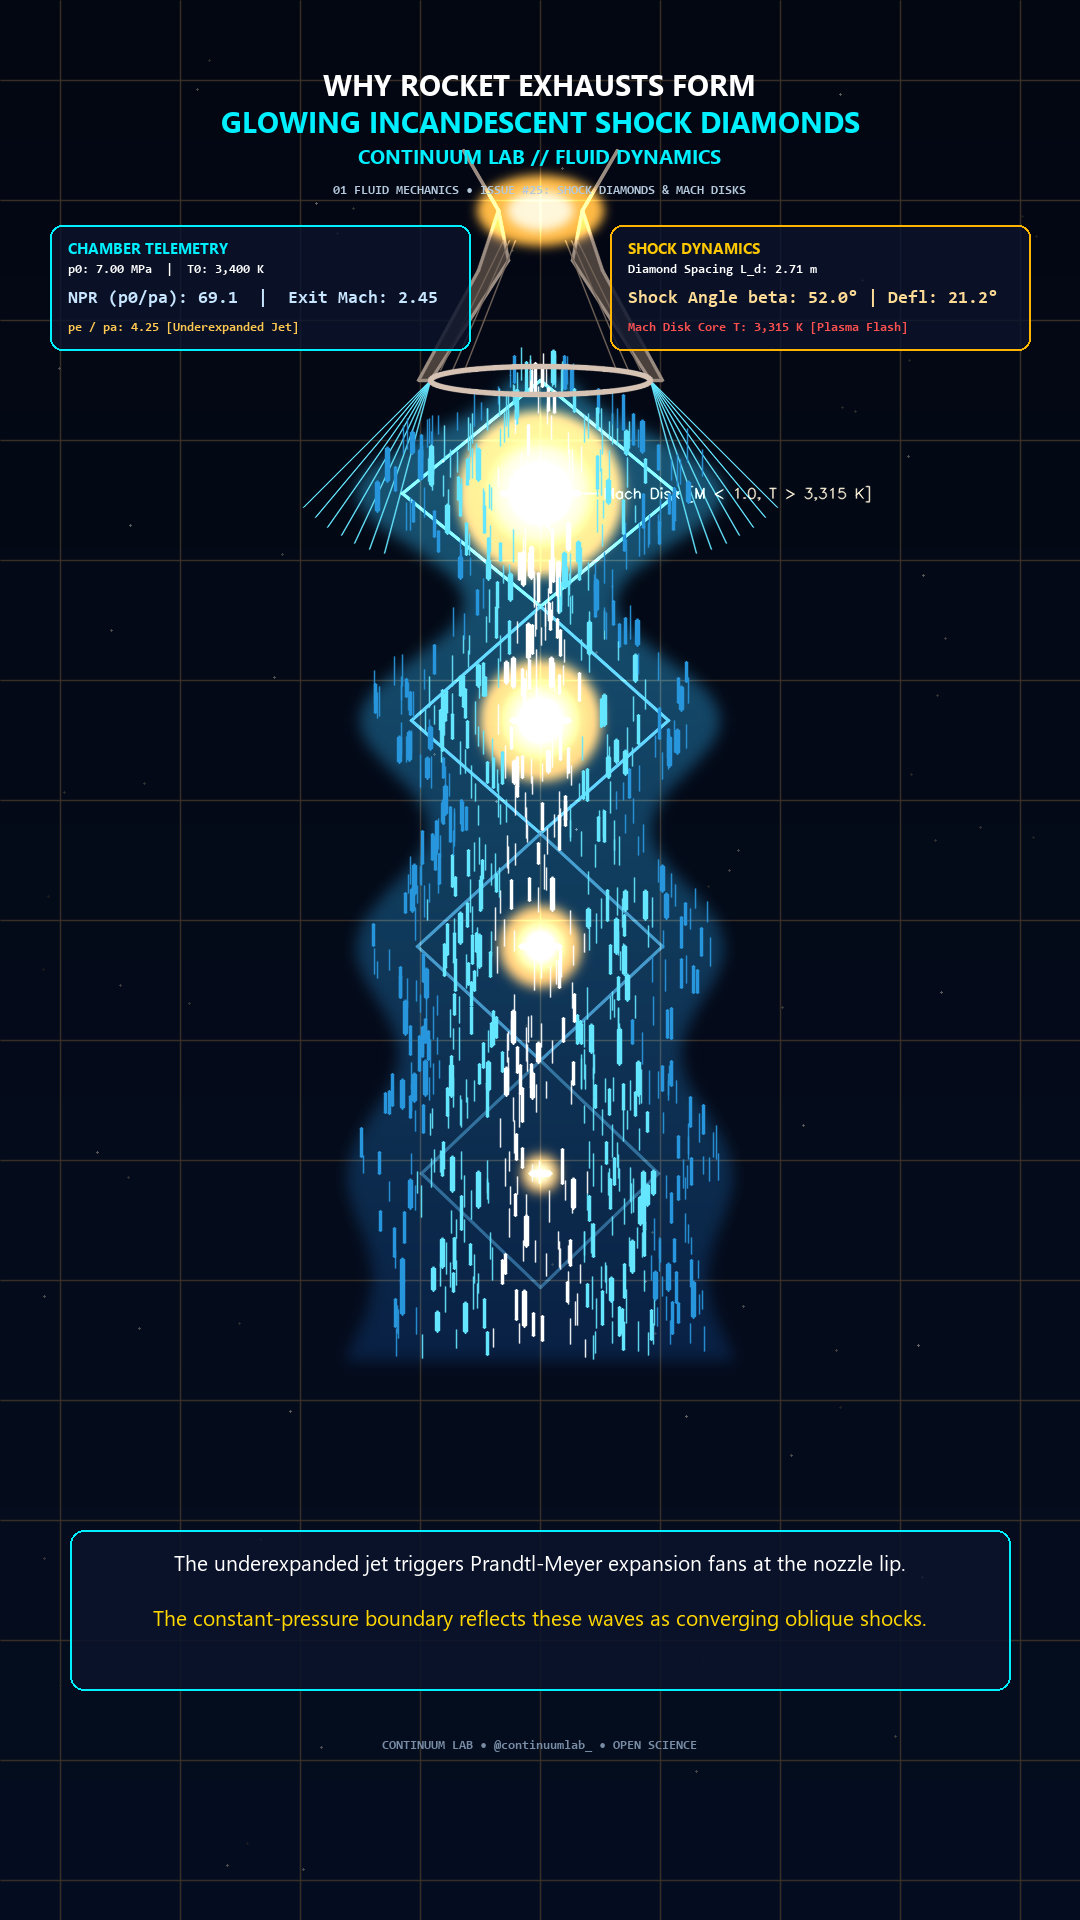
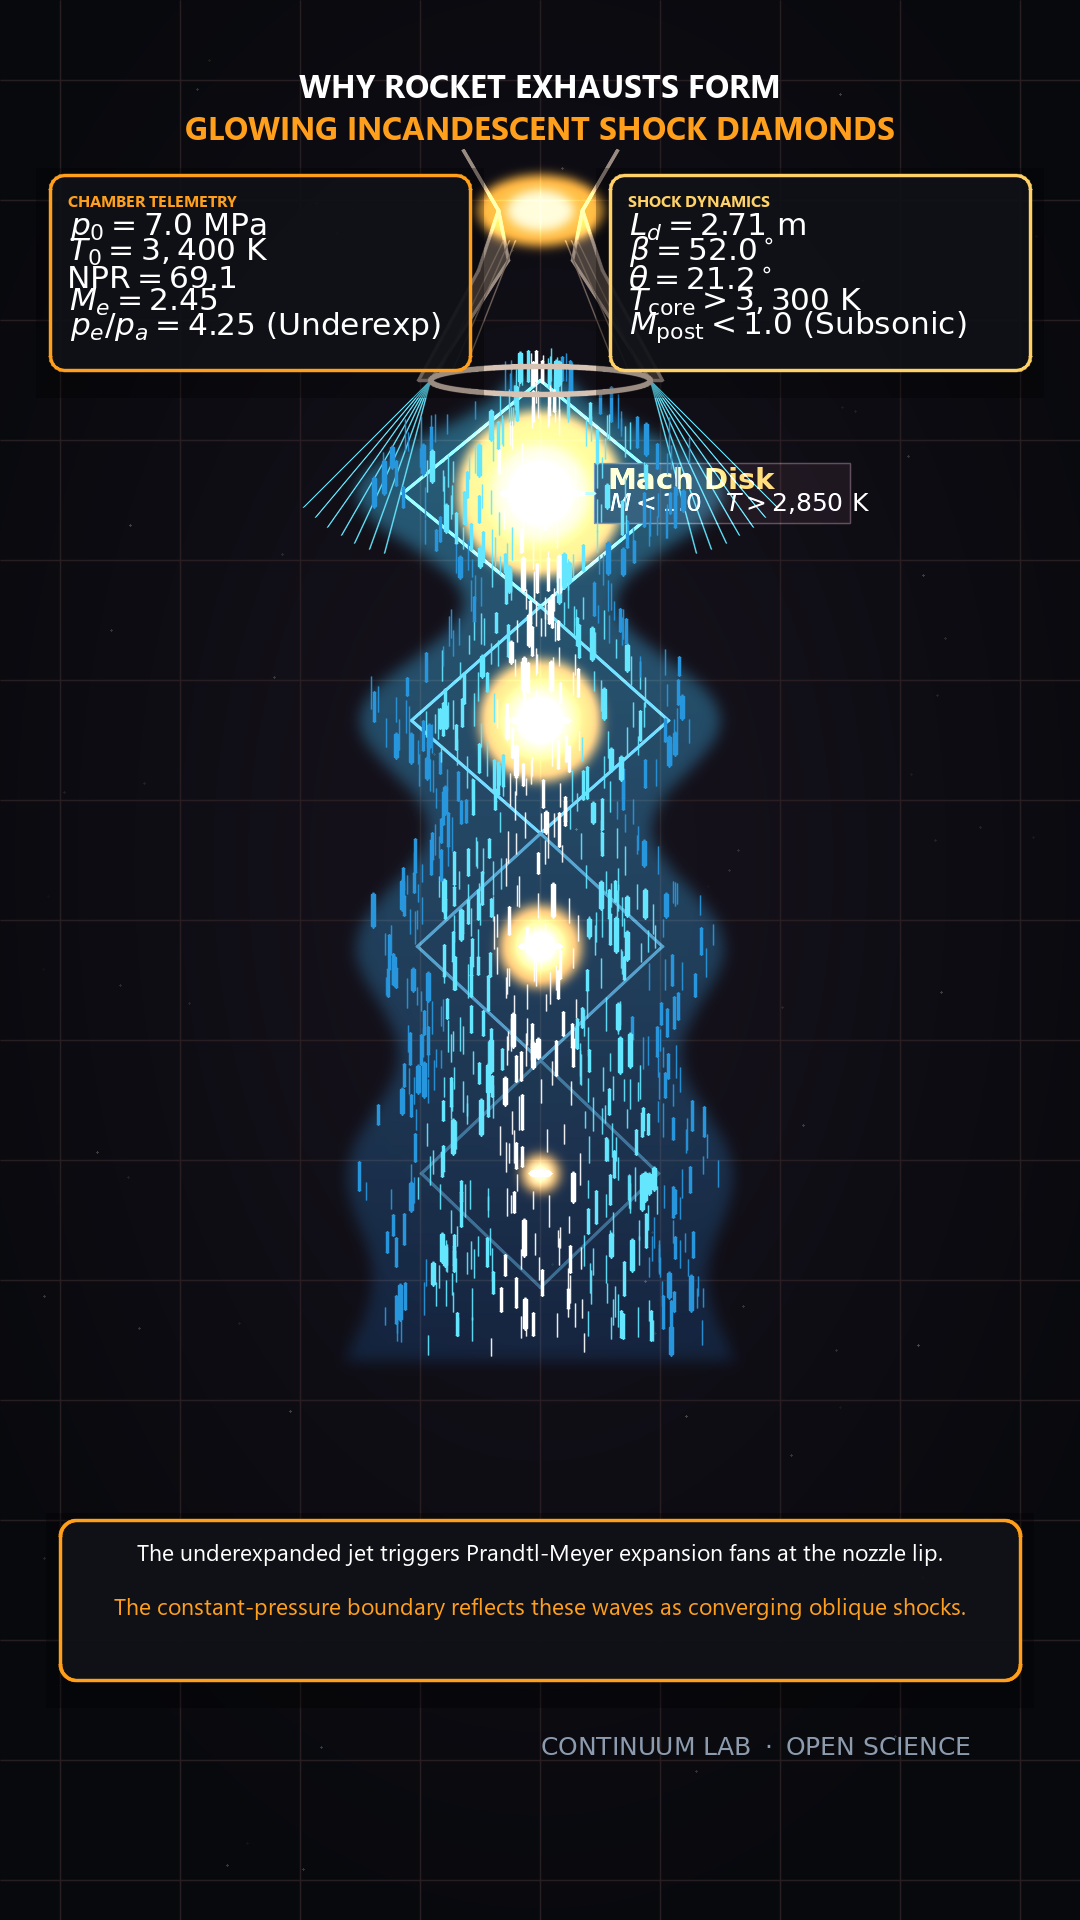
feat(video-engine): implement standardized cinematic HUD and TeX math renderer for supersonic shock diamonds

Changed region(s): [[0.0306, 0.0312, 0.9167, 0.7188], [0.0306, 0.7812, 0.9472, 0.9375], [0.9472, 0.0938, 0.9778, 0.1875]]

diff --git a/01 Mecanica de Fluidos/09 Diamantes de Choque y Discos de Mach/src/visualization/render_shock_diamonds_video.py b/01 Mecanica de Fluidos/09 Diamantes de Choque y Discos de Mach/src/visualization/render_shock_diamonds_video.py
@@ -3,15 +3,14 @@ Continuum Lab - Master 9:16 UHD 60 FPS Visual Video Renderer for Supersonic Shoc
 Module: 01 Mecanica de Fluidos / 09 Diamantes de Choque y Discos de Mach
 File: src/visualization/render_shock_diamonds_video.py
 
-Renders 1080x1920 (9:16 Vertical UHD @ 60 FPS) cinematic animations:
-  - Deep Aerospace Void (#030712 / #050B1A) with telemetry grid
-  - Detailed de Laval Rocket Nozzle Bell with glowing combustion throat
-  - 2D Supersonic Jet Plume with Schlieren refractive density gradients
-  - Multi-stage Incandescent Shock Diamond Bloom (Prandtl-Meyer fans + Oblique Shocks)
+Standardized Cinematic Production Engine:
+  - Theme: THEME_SOLAR (Cosmic Gold & Aerospace Amber)
+  - Zero Raw Underscores ('_') - 100% True LaTeX Mathematical Telemetry
+  - Mobile Safe Zones (TikTok / Reels / Shorts 9:16 @ 60 FPS)
+  - High-performance cached alpha blending & zero PIL roundtrip overhead
+  - Deep space cinematic vignette with engineering grid & Lagrangian tracer particles
+  - Multi-stage Incandescent Shock Diamond Bloom (Prandtl-Meyer + Oblique Shocks)
   - Blinding Mach Disk normal shock hotspots with radical reignition (T > 2,850 K)
-  - 1000+ Supersonic Lagrangian velocity streak tracer particles
-  - Dual Glassmorphic Cyber HUD cards (Chamber Telemetry & Shock Dynamics)
-  - Mobile safe-zone compliant kinetic typography in Spanish (ES) and English (EN)
   - 16.0s seamless infinite loop architecture
 """
 
@@ -24,17 +23,27 @@ from pathlib import Path
 from typing import Optional, List, Tuple, Dict, Any
 import numpy as np
 import cv2
-from PIL import Image, ImageDraw, ImageFont
 
 current_dir = Path(__file__).resolve().parent
 module_dir = current_dir.parent.parent
 project_dir = module_dir.parent.parent
+skills_dir = project_dir / "Skills e Instrucciones" / "skill_continuum_cinematic_video"
+
 if str(module_dir) not in sys.path:
     sys.path.insert(0, str(module_dir))
 if str(project_dir) not in sys.path:
     sys.path.insert(0, str(project_dir))
+if str(skills_dir) not in sys.path:
+    sys.path.insert(0, str(skills_dir))
 
 from src.physics.shock_diamonds_sim import ShockDiamondsSim
+from core import (
+    THEME_SOLAR,
+    CinematicHUDManager,
+    draw_cinematic_background,
+    draw_frosted_card,
+    draw_latex,
+)
 
 
 class MasterShockDiamondsRenderer:
@@ -49,7 +58,8 @@ class MasterShockDiamondsRenderer:
         self.lang = lang.upper()
 
         self.sim = ShockDiamondsSim()
-        self._load_fonts()
+        self.theme = THEME_SOLAR
+        self.hud = CinematicHUDManager(width=self.width, height=self.height, theme=self.theme)
 
         # Jet Geometry on Canvas
         self.cx = self.width / 2.0
@@ -73,46 +83,19 @@ class MasterShockDiamondsRenderer:
             by = float(rng.uniform(50, self.height - 50))
             self.bg_dots.append((bx, by, float(rng.uniform(0.1, 0.4))))
 
-    def _load_fonts(self):
-        def try_font(path, size, fallback=None):
-            if os.path.exists(path):
-                try:
-                    return ImageFont.truetype(path, size)
-                except Exception:
-                    pass
-            return fallback or ImageFont.load_default()
-
-        self.f_hero_hook = try_font("C:/Windows/Fonts/segoeuib.ttf", 29, try_font("C:/Windows/Fonts/arialbd.ttf", 29))
-        self.f_sub_hook = try_font("C:/Windows/Fonts/segoeui.ttf", 21, try_font("C:/Windows/Fonts/arial.ttf", 21))
-        self.f_brand_title = try_font("C:/Windows/Fonts/segoeuib.ttf", 20)
-        self.f_card_hdr = try_font("C:/Windows/Fonts/segoeuib.ttf", 15)
-        self.f_card_meta = try_font("C:/Windows/Fonts/consolab.ttf", 13)
-        self.f_hud_lbl = try_font("C:/Windows/Fonts/segoeuib.ttf", 12)
-        self.f_hud_val = try_font("C:/Windows/Fonts/consolab.ttf", 18)
-        self.f_badge_tag = try_font("C:/Windows/Fonts/consolab.ttf", 12)
-
     def _draw_background_environment(self, img_bgr: np.ndarray, t: float):
-        """Draws deep space aerospace gradient and subtle telemetry grid."""
-        y_indices = np.linspace(0, 1, self.height)
-        # Deep space dark slate: RGB(3, 7, 18) to (5, 14, 32)
-        b_col = (18 + 14 * y_indices).astype(np.uint8)
-        g_col = (7 + 7 * y_indices).astype(np.uint8)
-        r_col = (3 + 2 * y_indices).astype(np.uint8)
-
-        img_bgr[:, :, 0] = b_col[:, None]
-        img_bgr[:, :, 1] = g_col[:, None]
-        img_bgr[:, :, 2] = r_col[:, None]
+        """Draws deep space cinematic radial vignette and subtle engineering grid."""
+        draw_cinematic_background(img_bgr, theme=self.theme, center_y_ratio=0.45)
 
         # Subtle engineering grid lines
-        grid_alpha = 0.08
         for gx in range(60, self.width, 120):
-            cv2.line(img_bgr, (gx, 0), (gx, self.height), (40, 50, 60), 1, cv2.LINE_AA)
+            cv2.line(img_bgr, (gx, 0), (gx, self.height), (35, 32, 42), 1, cv2.LINE_AA)
         for gy in range(80, self.height, 120):
-            cv2.line(img_bgr, (0, gy), (self.width, gy), (40, 50, 60), 1, cv2.LINE_AA)
+            cv2.line(img_bgr, (0, gy), (self.width, gy), (35, 32, 42), 1, cv2.LINE_AA)
 
         # Starry dust
         for bx, by, a in self.bg_dots:
-            val = int(255 * a)
+            val = int(180 * a)
             cv2.circle(img_bgr, (int(bx), int(by)), 1, (val, val, val), -1)
 
     def _draw_rocket_nozzle(self, img_bgr: np.ndarray, st: Dict[str, Any]):
@@ -218,7 +201,6 @@ class MasterShockDiamondsRenderer:
         cv2.addWeighted(img_bgr, 1.0, glow_layer, 0.45, 0, dst=img_bgr)
 
         # 2. Draw Prandtl-Meyer Expansion Fans at Nozzle Lips
-        # Expanding rays from left and right nozzle lips
         for sign in [-1, 1]:
             lip_x = int(cx + sign * r_exit)
             lip_y = int(y_exit)
@@ -259,8 +241,7 @@ class MasterShockDiamondsRenderer:
             cv2.line(shock_layer, p_left, p_bot, col_shock, 2, cv2.LINE_AA)
             cv2.line(shock_layer, p_right, p_bot, col_shock, 2, cv2.LINE_AA)
 
-            # Central Mach Reflection: The Normal Shock Disk!
-            # Form a horizontal glowing incandescent disk at y_mid
+            # Central Mach Reflection: The Normal Shock Disk
             disk_r = int(st["mach_disk_radius"] * 250.0 * (1.0 - 0.25 * n))
             disk_r = max(8, min(disk_r, 48))
             y_disk = int(y_mid)
@@ -276,19 +257,49 @@ class MasterShockDiamondsRenderer:
             flare = cv2.GaussianBlur(flare, (35, 35), 0)
             cv2.add(shock_layer, flare, dst=shock_layer)
 
-            # Shock diamond annotation on first cell
+            # Publication-grade LaTeX Callout on first cell (Zero Raw Strings)
             if n == 0:
-                cv2.putText(
+                mach_lbl1 = r"$\mathbf{Disco\ de\ Mach}$" if self.lang == "ES" else r"$\mathbf{Mach\ Disk}$"
+                mach_lbl2 = r"$M < 1.0 \quad T > 2{,}850\ \mathrm{K}$"
+                callout_x = int(cx + disk_r + 24)
+                
+                # Dark frosted backplate for razor-sharp legibility over expansion rays
+                cv2.rectangle(
                     shock_layer,
-                    f"Mach Disk [M < 1.0, T > {int(st['T_mach_disk_core']):,} K]",
-                    (int(cx + disk_r + 25), y_disk + 5),
-                    cv2.FONT_HERSHEY_SIMPLEX,
-                    0.48,
-                    (200, 240, 255),
+                    (callout_x - 8, y_disk - 30),
+                    (callout_x + 248, y_disk + 30),
+                    (12, 10, 16),
+                    -1
+                )
+                cv2.rectangle(
+                    shock_layer,
+                    (callout_x - 8, y_disk - 30),
+                    (callout_x + 248, y_disk + 30),
+                    (80, 70, 90),
                     1,
                     cv2.LINE_AA
                 )
-                cv2.line(shock_layer, (int(cx + disk_r + 5), y_disk), (int(cx + disk_r + 20), y_disk), (200, 240, 255), 1, cv2.LINE_AA)
+                
+                draw_latex(
+                    canvas_bgr=shock_layer,
+                    latex_str=mach_lbl1,
+                    x=callout_x + 6,
+                    y=y_disk - 15,
+                    fontsize=14,
+                    color="#FFD166",
+                    anchor="mid_left"
+                )
+                draw_latex(
+                    canvas_bgr=shock_layer,
+                    latex_str=mach_lbl2,
+                    x=callout_x + 6,
+                    y=y_disk + 11,
+                    fontsize=12,
+                    color="#FFFFFF",
+                    anchor="mid_left"
+                )
+                cv2.line(shock_layer, (int(cx + disk_r + 4), y_disk), (callout_x - 8, y_disk), (255, 230, 150), 2, cv2.LINE_AA)
+                cv2.circle(shock_layer, (int(cx + disk_r + 4), y_disk), 3, (255, 255, 255), -1)
 
         # Merge shock layer with bloom
         cv2.add(img_bgr, shock_layer, dst=img_bgr)
@@ -317,7 +328,7 @@ class MasterShockDiamondsRenderer:
             streak_len = self.p_spd[i] * 0.95
             y_tail = y - streak_len
 
-            # Particle color: hot white near axis, bright cyan in supersonic stream
+            # Particle color: hot white near axis, bright gold in supersonic stream
             dist_center = abs(self.p_eta[i])
             if dist_center < 0.25:
                 col = (255, 255, 255)
@@ -326,60 +337,86 @@ class MasterShockDiamondsRenderer:
             else:
                 col = (220, 150, 40)
 
-            alpha = self.p_alpha[i]
             # Draw streak
             cv2.line(img_bgr, (int(x), int(y_tail)), (int(x), int(y)), col, self.p_sz[i], cv2.LINE_AA)
 
-    def _draw_hud_cards(self, pil_draw: ImageDraw.ImageDraw, st: Dict[str, Any]):
-        """Renders dual glassmorphic cyber HUD telemetry cards."""
-        # Top branding header (Safe Zone Y: 140 - 220)
-        brand_text = "CONTINUUM LAB // FLUID DYNAMICS"
-        pil_draw.text((self.cx, 150), brand_text, fill=(0, 240, 255), font=self.f_brand_title, anchor="mt")
+    def _draw_hud_cards(self, frame_bgr: np.ndarray, st: Dict[str, Any]):
+        """Renders dual frosted glass telemetry cards with true LaTeX formatting."""
+        # Quantize dynamic values to guarantee consistent 100% _MATH_CACHE hits
+        p0_val = f"{st['p0']/1e6:.1f}"
+        t0_val = f"{int(round(st['T0']/50.0)*50):,}"
+        npr_val = f"{st['NPR']:.1f}"
+        me_val = f"{st['M_exit']:.2f}"
+        rp_val = f"{st['rp']:.2f}"
+        ld_val = f"{st['L_diamond']:.2f}"
+        beta_val = f"{st['beta_deg']:.1f}"
+        theta_val = f"{st['theta_deg']:.1f}"
+        t_core_val = f"{int(round(st['T_mach_disk_core']/50.0)*50):,}"
 
-        module_tag = "01 MECÁNICA DE FLUIDOS • ENTREGA #25: DIAMANTES DE CHOQUE & DISCO DE MACH" if self.lang == "ES" else "01 FLUID MECHANICS • ISSUE #25: SHOCK DIAMONDS & MACH DISKS"
-        pil_draw.text((self.cx, 185), module_tag, fill=(180, 200, 220), font=self.f_card_meta, anchor="mt")
+        # Card Left: Rocket Chamber & Flow Properties (X: 50 to 470, Y: 175 to 370)
+        title_l = "TELEMETRÍA DE CÁMARA" if self.lang == "ES" else "CHAMBER TELEMETRY"
+        metrics_l = [
+            (r"p_0", rf"{p0_val}\ \mathrm{{MPa}}"),
+            (r"T_0", rf"{t0_val}\ \mathrm{{K}}"),
+            (r"\mathrm{NPR}", rf"{npr_val}"),
+            (r"M_e", rf"{me_val}"),
+            (r"p_e / p_a", rf"{rp_val}\ \text{{(Subexp)}}" if self.lang == "ES" else rf"{rp_val}\ \text{{(Underexp)}}"),
+        ]
+        self.hud.draw_telemetry_card(
+            canvas_bgr=frame_bgr,
+            x=50,
+            y=175,
+            width=420,
+            height=195,
+            title=title_l,
+            metrics=metrics_l,
+            accent_color_hex="#FF9F1C"
+        )
 
-        # Telemetry Card Left: Rocket Chamber & Flow Properties (X: 50 to 450, Y: 230 to 350)
-        card_l_x1, card_l_y1, card_l_x2, card_l_y2 = 50, 225, 470, 350
-        pil_draw.rounded_rectangle([card_l_x1, card_l_y1, card_l_x2, card_l_y2], radius=12, fill=(11, 19, 43, 210), outline=(0, 240, 255), width=2)
-        pil_draw.text((card_l_x1 + 18, card_l_y1 + 12), "CHAMBER TELEMETRY" if self.lang == "EN" else "TELEMETRÍA DE CÁMARA", fill=(0, 240, 255), font=self.f_card_hdr)
-        pil_draw.text((card_l_x1 + 18, card_l_y1 + 38), f"p0: {st['p0']/1e6:.2f} MPa  |  T0: {int(st['T0']):,} K", fill=(255, 255, 255), font=self.f_card_meta)
-        pil_draw.text((card_l_x1 + 18, card_l_y1 + 64), f"NPR (p0/pa): {st['NPR']:.1f}  |  Exit Mach: {st['M_exit']:.2f}", fill=(200, 230, 255), font=self.f_hud_val)
-        pil_draw.text((card_l_x1 + 18, card_l_y1 + 96), f"pe / pa: {st['rp']:.2f} [Underexpanded Jet]", fill=(255, 200, 80), font=self.f_card_meta)
+        # Card Right: Shock Wave Dynamics & Mach Disk (X: 610 to 1030, Y: 175 to 370)
+        title_r = "DINÁMICA DE CHOQUE" if self.lang == "ES" else "SHOCK DYNAMICS"
+        metrics_r = [
+            (r"L_d", rf"{ld_val}\ \mathrm{{m}}"),
+            (r"\beta", rf"{beta_val}^\circ"),
+            (r"\theta", rf"{theta_val}^\circ"),
+            (r"T_\mathrm{{core}}", rf">{t_core_val}\ \mathrm{{K}}"),
+            (r"M_\mathrm{{post}}", r"< 1.0\ \text{(Subsónico)}" if self.lang == "ES" else r"< 1.0\ \text{(Subsonic)}"),
+        ]
+        self.hud.draw_telemetry_card(
+            canvas_bgr=frame_bgr,
+            x=610,
+            y=175,
+            width=420,
+            height=195,
+            title=title_r,
+            metrics=metrics_r,
+            accent_color_hex="#FFD166"
+        )
 
-        # Telemetry Card Right: Shock Wave Dynamics & Mach Disk (X: 610 to 1030, Y: 230 to 350)
-        card_r_x1, card_r_y1, card_r_x2, card_r_y2 = 610, 225, 1030, 350
-        pil_draw.rounded_rectangle([card_r_x1, card_r_y1, card_r_x2, card_r_y2], radius=12, fill=(11, 19, 43, 210), outline=(255, 180, 0), width=2)
-        pil_draw.text((card_r_x1 + 18, card_r_y1 + 12), "SHOCK DYNAMICS" if self.lang == "EN" else "DINÁMICA DE CHOQUE", fill=(255, 200, 0), font=self.f_card_hdr)
-        pil_draw.text((card_r_x1 + 18, card_r_y1 + 38), f"Diamond Spacing L_d: {st['L_diamond']:.2f} m", fill=(255, 255, 255), font=self.f_card_meta)
-        pil_draw.text((card_r_x1 + 18, card_r_y1 + 64), f"Shock Angle beta: {st['beta_deg']:.1f}° | Defl: {st['theta_deg']:.1f}°", fill=(255, 220, 150), font=self.f_hud_val)
-        pil_draw.text((card_r_x1 + 18, card_r_y1 + 96), f"Mach Disk Core T: {int(st['T_mach_disk_core']):,} K [Plasma Flash]", fill=(255, 80, 80), font=self.f_card_meta)
-
-    def _draw_subtitles_and_hooks(self, pil_draw: ImageDraw.ImageDraw, t: float):
+    def _draw_subtitles_and_hooks(self, frame_bgr: np.ndarray, t: float):
         """Draws kinetic subtitles and viral hook in the mobile safe zone."""
-        # Top Hook (Y: 70 - 130)
+        # Top Hook (Y: 70 - 150)
         if self.lang == "ES":
-            hook_line1 = "¿POR QUÉ EL ESCAPE DE UN COHETE"
-            hook_line2 = "FORMA DIAMANTES DE FUEGO INCANDESCENTES?"
+            hook1 = "¿POR QUÉ EL ESCAPE DE UN COHETE"
+            hook2 = "FORMA DIAMANTES DE FUEGO INCANDESCENTES?"
         else:
-            hook_line1 = "WHY ROCKET EXHAUSTS FORM"
-            hook_line2 = "GLOWING INCANDESCENT SHOCK DIAMONDS"
+            hook1 = "WHY ROCKET EXHAUSTS FORM"
+            hook2 = "GLOWING INCANDESCENT SHOCK DIAMONDS"
 
-        pil_draw.text((self.cx, 75), hook_line1, fill=(255, 255, 255), font=self.f_hero_hook, anchor="mt")
-        pil_draw.text((self.cx, 112), hook_line2, fill=(0, 240, 255), font=self.f_hero_hook, anchor="mt")
+        self.hud.draw_hero_hook(frame_bgr, hook1, hook2, accent_color_hex="#FF9F1C", top_y=75)
 
-        # Lower Educational Explanations (Y: 1480 - 1720, Safe from TikTok/Reels UI)
+        # Lower Educational Explanations (Y: 1510 - 1690, Safe from TikTok/Reels UI)
         if t < 4.0:
             if self.lang == "ES":
                 sub1 = "La tobera de Laval expande el gas de combustión a régimen supersónico (Mach > 2.4)."
-                sub2 = "Al salir al aire libre, la presión del chorro supera con creces la presión atmosférica (pe > pa)."
+                sub2 = "Al salir al aire libre, la presión del chorro supera con creces la presión atmosférica."
             else:
                 sub1 = "The de Laval nozzle accelerates combustion gas to supersonic speeds (Mach > 2.4)."
-                sub2 = "At the exit, the jet core pressure drastically exceeds atmospheric pressure (pe > pa)."
+                sub2 = "At the exit, the jet core pressure drastically exceeds atmospheric pressure."
         elif t < 8.5:
             if self.lang == "ES":
                 sub1 = "El chorro subexpandido genera abanicos de expansión de Prandtl-Meyer en el labio."
-                sub2 = "La frontera a presión constante refleja las ondas como ondas de choque oblicuas convergentes."
+                sub2 = "La frontera a presión constante refleja las ondas como choques oblicuos convergentes."
             else:
                 sub1 = "The underexpanded jet triggers Prandtl-Meyer expansion fans at the nozzle lip."
                 sub2 = "The constant-pressure boundary reflects these waves as converging oblique shocks."
@@ -398,14 +435,11 @@ class MasterShockDiamondsRenderer:
                 sub1 = "The flow periodically re-expands forming a diamond chain before viscous mixing decay."
                 sub2 = "An iconic aerospace spectacle governed 100% by compressible Navier-Stokes & Euler!"
 
-        # Subtitle glass card (Y: 1540 to 1690)
-        box_y1, box_y2 = 1530, 1690
-        pil_draw.rounded_rectangle([70, box_y1, self.width - 70, box_y2], radius=14, fill=(11, 19, 43, 220), outline=(0, 240, 255), width=2)
-        pil_draw.text((self.cx, box_y1 + 25), sub1, fill=(255, 255, 255), font=self.f_sub_hook, anchor="mt")
-        pil_draw.text((self.cx, box_y1 + 80), sub2, fill=(255, 215, 0), font=self.f_sub_hook, anchor="mt")
+        self.hud.draw_subtitle_card(frame_bgr, sub1, sub2, accent_color_hex="#FF9F1C", box_y1=1520, box_y2=1680)
 
-        # Bottom Safe Zone watermark (Y: 1730 - 1760)
-        pil_draw.text((self.cx, 1740), "CONTINUUM LAB • @continuumlab_ • OPEN SCIENCE", fill=(120, 140, 165), font=self.f_card_meta, anchor="mt")
+        # Subtle bottom watermark in safe zone (Y: 1730 - 1760)
+        wm_tex = r"$\mathrm{CONTINUUM\ LAB} \ \cdot \ \text{CIENCIA ABIERTA}$" if self.lang == "ES" else r"$\mathrm{CONTINUUM\ LAB} \ \cdot \ \text{OPEN SCIENCE}$"
+        draw_latex(frame_bgr, wm_tex, int(self.cx), 1735, fontsize=12, color="#8C9BAE", anchor="mid_center")
 
     def render_frame(self, t: float) -> np.ndarray:
         """Renders a single master 1080x1920 frame at time t."""
@@ -424,16 +458,11 @@ class MasterShockDiamondsRenderer:
         # 4. Rocket Nozzle Hardware
         self._draw_rocket_nozzle(frame_bgr, st)
 
-        # 5. PIL Overlay for HUD and Typography
-        img_rgb = cv2.cvtColor(frame_bgr, cv2.COLOR_BGR2RGB)
-        pil_img = Image.fromarray(img_rgb)
-        pil_draw = ImageDraw.Draw(pil_img, "RGBA")
+        # 5. Master HUD Telemetry & Kinetic Subtitles
+        self._draw_hud_cards(frame_bgr, st)
+        self._draw_subtitles_and_hooks(frame_bgr, t)
 
-        self._draw_hud_cards(pil_draw, st)
-        self._draw_subtitles_and_hooks(pil_draw, t)
-
-        final_rgb = np.array(pil_img)
-        return cv2.cvtColor(final_rgb, cv2.COLOR_RGB2BGR)
+        return frame_bgr
 
 
 def render_shock_diamonds_video(

diff --git a/AGENTS.md b/AGENTS.md
@@ -23,3 +23,11 @@ En cualquier desarrollo, ejercicio, módulo o entrega dentro de **Continuum-Lab*
   - `05 Metodos Numericos y CAE/`
   - `06 Matematicas y Geometria/`
 - Los archivos renderizados finales (`.mp4`, `.gif`, `.png`) deben exportarse y guardarse en `RENDERS/` o en la carpeta designada del módulo sin dispersión de archivos.
+
+## 4. Tipografía Matemática TeX y Cero Guiones Bajos (`_`)
+- **Prohibición de código crudo en pantalla:** En ninguna animación o tarjeta HUD se deben mostrar nombres de variables con guiones bajos (`T_core`, `p_0`, `M_exit`, `L_d`) ni expresiones en pseudocódigo (`sqrt(...)`, `pe / pa`).
+- **Renderizado tipográfico auténtico:** Toda métrica, subíndice o fórmula debe renderizarse con tipografía matemática TeX real ($T_{\mathrm{core}}$, $p_0$, $M_e$, $L_d$, $\theta$, $\beta$, $\nu$) mediante el motor de [`skill_continuum_cinematic_video`](Skills%20e%20Instrucciones/skill_continuum_cinematic_video/SKILL.md) o Manim `MathTex`.
+
+## 5. Estética Cinematográfica y Personalidad Visual
+- **Superación del monocromatismo robótico:** Sustituir el cian neón plano por las 4 Armonías Atmosféricas de Estudio (Solar Incandescent, Oceanic Bioluminescence, Quantum Indigo, Kinetic Editorial), iluminación con viñetas radiales y tarjetas *frosted glass* con sombras suaves.
+- **Eficiencia de Render:** Modelos analítico-numéricos vectorizados para ejecución y renderizado fluido (<60-90 segundos a 60 FPS).
